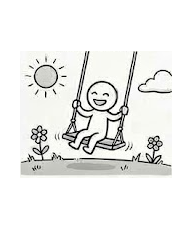
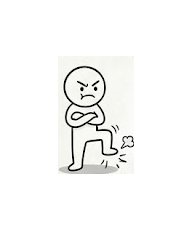
Vervang afbeelding voor de Boze Kindmodus

Changed region(s): [[0.0938, 0.213, 0.9062, 0.7913], [0.7188, 0.3043, 0.9062, 0.4261]]

diff --git a/uniform_boze_kind.py b/uniform_boze_kind.py
@@ -1,0 +1,49 @@
+import os
+from PIL import Image
+
+def process_single_card():
+    src = '/Users/matthias/.gemini/antigravity/brain/acd87751-da16-4243-b024-dac813b45d2f/media__1790271145507.png'
+    output_dir = '/Users/matthias/.gemini/antigravity/scratch/schema-therapy-app/public/images/modes'
+    
+    card_w = 192
+    card_h = 230
+    
+    img = Image.open(src).convert('RGBA')
+    
+    # Shrinkwrap first to get the true size of the drawing
+    bg = Image.new("RGB", img.size, (255, 255, 255))
+    bg.paste(img, mask=img.split()[3])
+    
+    img_gray = bg.convert('L')
+    w, h = bg.size
+    min_x, min_y, max_x, max_y = w, h, 0, 0
+    has_dark = False
+    
+    for y in range(h):
+        for x in range(w):
+            if img_gray.getpixel((x, y)) < 240:
+                min_x = min(min_x, x)
+                min_y = min(min_y, y)
+                max_x = max(max_x, x)
+                max_y = max(max_y, y)
+                has_dark = True
+    
+    if has_dark:
+        final_img = bg.crop((min_x, min_y, max_x, max_y))
+    else:
+        final_img = bg
+        
+    # Create a new white card
+    card = Image.new("RGB", (card_w, card_h), (255, 255, 255))
+    
+    # Center the drawing on the card
+    offset_x = (card_w - final_img.size[0]) // 2
+    offset_y = (card_h - final_img.size[1]) // 2
+    
+    card.paste(final_img, (offset_x, offset_y))
+    
+    dst = os.path.join(output_dir, "bk.png")
+    card.save(dst, "PNG")
+    print(f"Saved mode card bk")
+
+process_single_card()
